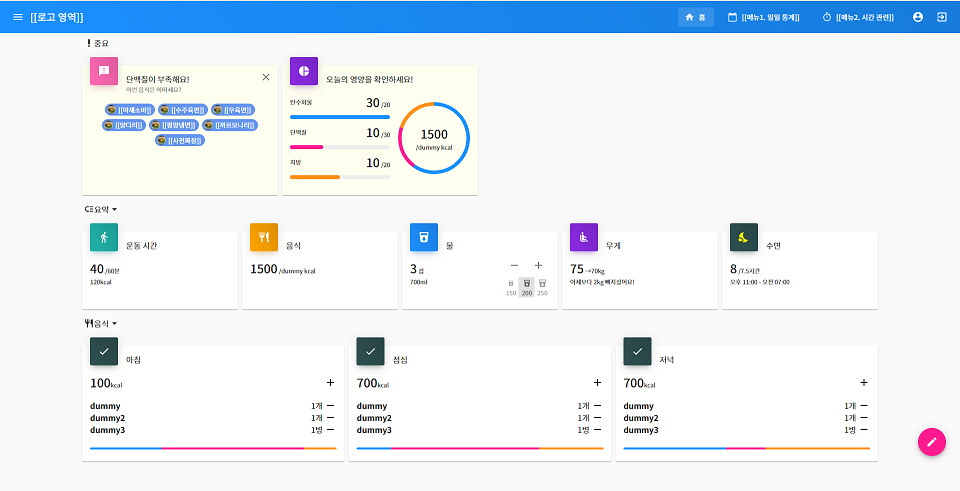
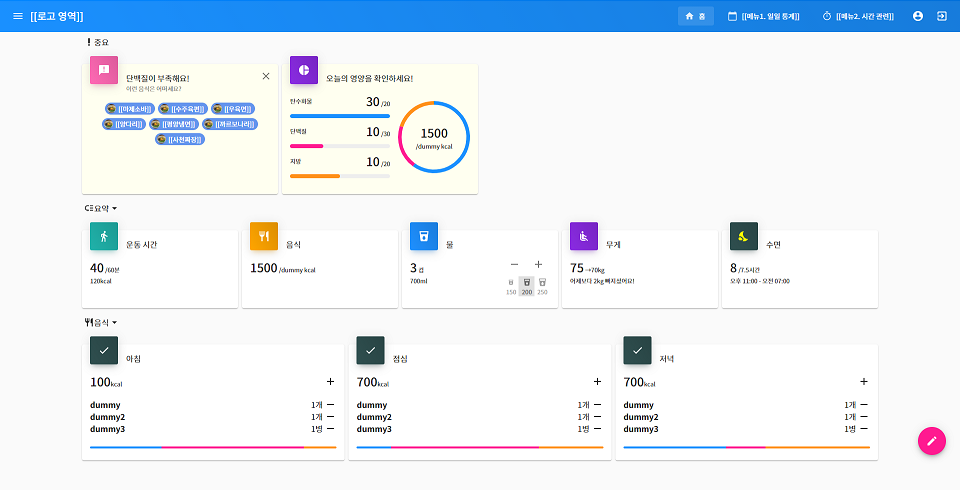
chore(app): Update image sizes
- Remove some margins in the images.
- Add information of image width on README.md

diff --git a/README.md b/README.md
@@ -34,19 +34,19 @@
 
 영양소와 칼로리에 대한 통계를 시각화해 보여주고, 부족한 영양소를 추천해줌.
 
-#### PC
+#### PC (width: 1920px)
 
 ![example1_pc](./docs/example1_pc.png)
 
-#### 태블릿
+#### 태블릿 (width: 768px)
 
 ![example1_tablet](./docs/example1_tablet.png)
 
-#### 모바일
+#### 모바일 (width: 411px)
 
 ![example1_mobileL](./docs/example1_mobileL.png)
 
-### 프로필 관련 화면 (모바일)
+### 프로필 관련 화면 (width: 411px)
 
 처음 시작 시에, 유저의 성별, 키, 몸무게, 운동 빈도, 그리고 식단 관리 목표를 입력 받음.
 
